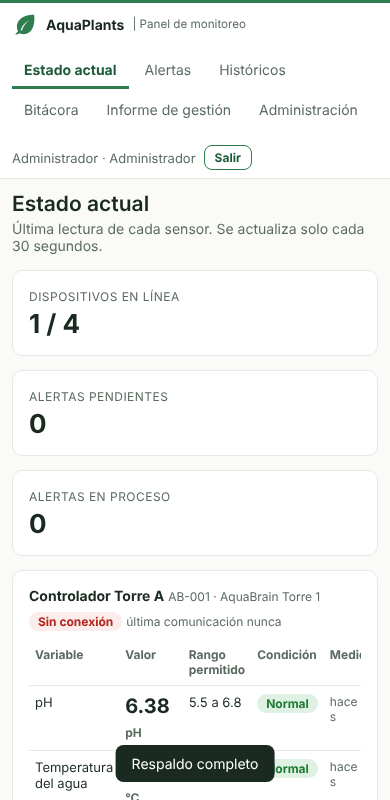
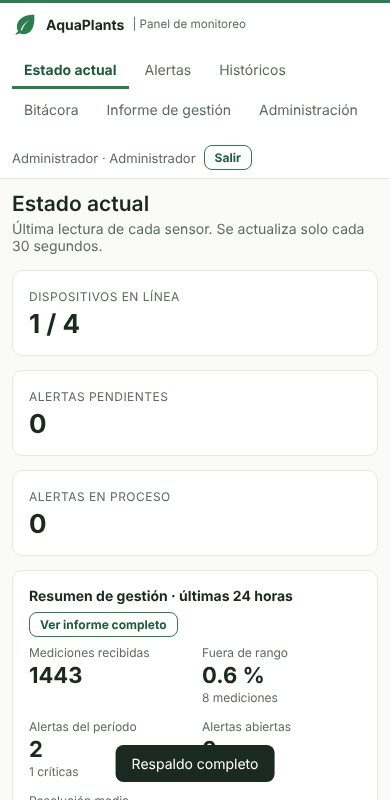
feat: resumen de gestión en Estado actual, más variedad en datos de demo y prueba PM-16
Claude-Session: https://claude.ai/code/session_01Y7NJkophgKa5ZJoceSDNRb

diff --git a/frontend/js/app.js b/frontend/js/app.js
@@ -129,7 +129,7 @@ function irA(v) {
 /* ================= CU02 Estado actual ================= */
 async function vEstado() {
   const m = $('#contenido');
-  m.innerHTML = `<h1>Estado actual</h1><p class="sub">Última lectura de cada sensor. Se actualiza solo cada 30 segundos.</p><div id="aviso"></div><div id="kpis"></div><div id="devs">${cargando()}</div>`;
+  m.innerHTML = `<h1>Estado actual</h1><p class="sub">Última lectura de cada sensor. Se actualiza solo cada 30 segundos.</p><div id="aviso"></div><div id="kpis"></div><div id="gestion"></div><div id="devs">${cargando()}</div>`;
   const pintar = (est, fallo) => {
     ultimoEstado = est;
     $('#aviso').innerHTML = fallo ? `<div class="msg error" role="alert">Sin conexión con el servidor. Se muestran los últimos datos recibidos (${esc(fmtFecha(est.generado_en))}). Reintentando…</div>` : '';
@@ -148,7 +148,22 @@ async function vEstado() {
           <td class="hint">${esc(hace(s.marca_tiempo))}</td></tr>`).join('') || '<tr><td colspan="5" class="hint">Sin sensores registrados</td></tr>'}
         </tbody></table></div></div>`).join('') : vacio('Aún no hay dispositivos registrados.');
   };
+  const puedeGestion = ['Administrador', 'Supervisor'].includes(usuario.rol);
+  const gestion = async () => {
+    if (!puedeGestion) return;
+    try {
+      const ahora = new Date(), f = (d) => d.toISOString().slice(0, 19) + 'Z';
+      const r = await API.get('/informes/gestion?' + new URLSearchParams({ desde: f(new Date(ahora - 864e5)), hasta: f(ahora) })), x = r.resumen;
+      const it = (k, v, sub = '') => `<div><span class="hint">${esc(k)}</span><b>${esc(v)}</b>${sub ? `<small class="hint">${esc(sub)}</small>` : ''}</div>`;
+      $('#gestion').innerHTML = `<div class="card resumen-gestion"><div class="dev-head"><strong>Resumen de gestión · últimas 24 horas</strong><button class="btn sec sm" id="ver-informe">Ver informe completo</button></div>
+        <div class="rg-grid">${it('Mediciones recibidas', x.mediciones)}${it('Fuera de rango', x.pct_fuera_de_rango + ' %', x.mediciones_fuera_de_rango + ' mediciones')}
+        ${it('Alertas del período', x.alertas_periodo, x.alertas_criticas + ' críticas')}${it('Alertas abiertas', x.alertas_abiertas_ahora)}
+        ${it('Resolución media', x.tiempo_medio_resolucion_min === null ? '—' : x.tiempo_medio_resolucion_min + ' min', x.alertas_resueltas + ' resueltas')}</div></div>`;
+      $('#ver-informe').addEventListener('click', () => irA('informe'));
+    } catch (e) { /* el resumen es complementario: si falla, el estado se sigue mostrando */ }
+  };
   const cargar = async () => {
+    gestion();
     try { pintar(await API.get('/dashboard/estado'), false); }
     catch (e) {
       if (e.red && ultimoEstado) pintar(ultimoEstado, true);

diff --git a/tests/ui/pm.js b/tests/ui/pm.js
@@ -121,6 +121,11 @@ const api = async (m, r, b, h = {}) => {
     await p.setViewportSize({ width: 1200, height: 900 }); await p.goto(URL); await p.evaluate(() => sessionStorage.clear()); await login(ADMIN); await p.click('button[data-v=informe]'); await p.waitForSelector('#i-body h2'); await p.waitForTimeout(500);
     const inf = (await p.textContent('#i-body')).replace(/\s+/g, ' '); const evInf = await shot('pm-15-informe-gestion');
     registrar('PM-15', 'Informe de gestión visible desde la interfaz (Administrador/Supervisor)', 'aparecen resumen ejecutivo, variables, desempeño por dispositivo y alertas', inf.slice(0, 110), /Resumen ejecutivo/.test(inf) && /Variables monitoreadas/.test(inf) && /Alertas del período/.test(inf), evInf);
+    // PM-16 resumen de gestión dentro del Estado actual (Administrador)
+    await p.click('button[data-v=estado]'); await p.waitForSelector('#gestion .resumen-gestion', { timeout: 15000 });
+    const rg = (await p.textContent('#gestion')).replace(/\s+/g, ' '); const evRg = await shot('pm-16-resumen-gestion');
+    await p.click('#ver-informe'); await p.waitForSelector('#i-body h2'); const alInf = /Informe de gestión/.test(await p.textContent('#contenido h1'));
+    registrar('PM-16', 'El Estado actual muestra un resumen de gestión (Administrador/Supervisor) con enlace al informe completo', 'aparece el resumen de 24 h y el botón lleva al informe', rg.slice(0, 100), /Resumen de gestión/.test(rg) && /Mediciones recibidas/.test(rg) && alInf, evRg);
     // PM-14 teclado / accesibilidad básica
     await p.goto(URL); await p.evaluate(() => sessionStorage.clear()); await p.reload(); await p.waitForSelector('#form-login');
     await p.keyboard.press('Tab'); const foco1 = await p.evaluate(() => document.activeElement.id); await p.keyboard.press('Tab'); const foco2 = await p.evaluate(() => document.activeElement.id);

diff --git a/frontend/css/app.css b/frontend/css/app.css
@@ -66,3 +66,6 @@ tbody tr:hover{background:#F6F9F5}
 .login-wrap .login .card{width:100%;max-width:380px;border:0;background:transparent;padding:0}
 .login-wrap .login .brand{margin-bottom:6px}
 @media (max-width:760px){.login-wrap{grid-template-columns:1fr}.login-side{display:none}}
+
+.rg-grid{display:grid;grid-template-columns:repeat(5,1fr);gap:14px}.rg-grid div{display:flex;flex-direction:column;gap:2px}.rg-grid b{font-size:22px}.rg-grid small{font-size:12px}
+@media (max-width:760px){.rg-grid{grid-template-columns:repeat(2,1fr)}}

diff --git a/tools/cargar_datos_demo.py b/tools/cargar_datos_demo.py
@@ -86,13 +86,25 @@ for cod, (key, vs) in claves.items():
         for i in range(n):
             ts = ahora - timedelta(minutes=10 * (n - i))
             val = mu + sd * math.sin(i / 40.0) * 0.8 + random.gauss(0, sd * 0.15)
-            if cod == "AB-003" and v == "ph" and exc <= i < exc + 3: val = hi + 0.9
+            if cod == "AB-003" and v == "ph" and exc <= i < exc + 3: val = hi + 0.9                 # pH alto a mitad de período
+            if cod == "AB-004" and v == "conductividad_ec" and n - 14 <= i < n - 11: val = lo - 0.5  # EC baja reciente
+            if cod == "AB-005" and v == "humedad_ambiente" and n // 2 <= i < n // 2 + 3: val = hi + 6  # humedad alta
             med.append({"variable": v, "valor": round(val, 2), "marca_tiempo": ts.strftime("%Y-%m-%dT%H:%M:%SZ")})
         for k in range(0, len(med), 500):
             st, js = http("POST", "/mediciones/lote", {"mediciones": med[k:k + 500]}, key=key)
             if st not in (200, 201): print("lote", cod, v, "error", st, js); break
             total += len(med[k:k + 500])
 print("mediciones enviadas:", total)
+
+# Estados variados de alertas: una resuelta con causa, una en proceso y el resto pendientes
+if claves:
+    _, pend = http("GET", "/alertas?estado=Pendiente", token=t)
+    pend = sorted([x for x in (pend or []) if x["dispositivo"] in claves], key=lambda x: x["creada_en"])
+    if pend:
+        http("PATCH", f"/alertas/{pend[0]['id']}", {"estado": "Resuelta", "causa": "Se corrigió la dosificación de la solución y el valor volvió al rango."}, t)
+    if len(pend) > 1:
+        http("PATCH", f"/alertas/{pend[1]['id']}", {"estado": "En proceso"}, t)
+    print("alertas gestionadas:", min(len(pend), 2), "de", len(pend))
 
 te = login(a.encargado_email, a.encargado_clave) if (a.encargado_clave and claves) else None  # bitácora solo en la primera carga
 if te:

diff --git a/docs/REGISTRO_PRUEBAS.md b/docs/REGISTRO_PRUEBAS.md
@@ -1,6 +1,6 @@
 # Registro de ejecución de pruebas
 
-Ejecutado: 2026-11-22 22:28. Resultado: **85/85 casos aprobados**; carga: cumple los criterios.
+Ejecutado: 2026-11-23 00:46. Resultado: **86/86 casos aprobados**; carga: cumple los criterios.
 
 ## Unitarias (PU)
 
@@ -25,9 +25,9 @@ Ejecutado: 2026-11-22 22:28. Resultado: **85/85 casos aprobados**; carga: cumple
 | PI-02 | CU01 | Credenciales inválidas: mensaje genérico (no revela si el correo existe) | 401 en ambos casos con el mismo mensaje | 401/401 «Correo o contraseña incorrectos» / «Correo o contraseña incorrectos» | Aprobado |
 | PI-03 | CU01 | Usuario desactivado no puede ingresar (FA2) | 403 con aviso de contactar al Administrador | 403 Usuario desactivado. Contacte al Administrador. | Aprobado |
 | PI-04 | CU01 | Token expirado es rechazado (FA3) | 401 indicando sesión expirada | 401 La sesión expiró; inicie sesión nuevamente | Aprobado |
-| PI-05 | CU09 | Medición válida se guarda con su marca de tiempo y aparece en el histórico | 201; el histórico trae 1 punto con ese valor y esa marca | 201; total=1 punto=[{'t': '2026-11-23T01:26:43Z', 'v': 6.2}] | Aprobado |
-| PI-06 | CU09 | Sin marca de tiempo, el servidor asigna la hora actual | marca dentro de los últimos 30 s | 2026-11-23T01:27:43Z | Aprobado |
-| PI-07 | CU09 | Medición fuera de umbral genera alerta Pendiente | 201 con id de alerta; alerta pH Pendiente Crítica | 201 alerta=27 [('ph', 'Pendiente', 'Crítica')] | Aprobado |
+| PI-05 | CU09 | Medición válida se guarda con su marca de tiempo y aparece en el histórico | 201; el histórico trae 1 punto con ese valor y esa marca | 201; total=1 punto=[{'t': '2026-11-23T03:44:36Z', 'v': 6.2}] | Aprobado |
+| PI-06 | CU09 | Sin marca de tiempo, el servidor asigna la hora actual | marca dentro de los últimos 30 s | 2026-11-23T03:45:36Z | Aprobado |
+| PI-07 | CU09 | Medición fuera de umbral genera alerta Pendiente | 201 con id de alerta; alerta pH Pendiente Crítica | 201 alerta=26 [('ph', 'Pendiente', 'Crítica')] | Aprobado |
 | PI-08 | CU09 | No se repiten alertas mientras la anterior sigue abierta | 1 sola alerta para 3 lecturas fuera de rango | 1 alertas | Aprobado |
 | PI-09 | CU09 | Valor dentro del umbral no genera alerta (límite inclusivo 6.8) | 0 alertas | 0 | Aprobado |
 | PI-10 | CU09 | Valor no numérico se rechaza y no se guarda (FA1) | 422 con detalle del campo; 0 mediciones guardadas | 422 [{'campo': 'valor', 'mensaje': 'el valor debe ser numérico'}] total=0 | Aprobado |
@@ -36,7 +36,7 @@ Ejecutado: 2026-11-22 22:28. Resultado: **85/85 casos aprobados**; carga: cumple
 | PI-13 | CU09 | Medición repetida (mismo sensor y marca) no se duplica | 1.ª 201; 2.ª 409 | 201, 409 | Aprobado |
 | PI-14 | CU09 | Variable sin sensor registrado en el dispositivo | 422 explicando que no hay sensor | 422 El dispositivo no tiene un sensor activo para 'caudal' | Aprobado |
 | PI-15 | CU09 | API Key ausente, alterada, mal formada y de dispositivo desactivado | 401, 401, 401 y 403 | 401, 401, 401, 403 | Aprobado |
-| PI-16 | CU10 | Lote acumulado en desconexión: se incorpora y evalúa alertas | 201; 41 insertadas; 1 alerta | 201 {'recibidas': 41, 'insertadas': 41, 'duplicadas': 0, 'alertas': [29]} | Aprobado |
+| PI-16 | CU10 | Lote acumulado en desconexión: se incorpora y evalúa alertas | 201; 41 insertadas; 1 alerta | 201 {'recibidas': 41, 'insertadas': 41, 'duplicadas': 0, 'alertas': [28]} | Aprobado |
 | PI-17 | CU10 | Reenviar el mismo lote no duplica datos | 201; 0 insertadas; 5 duplicadas | 201 {'recibidas': 5, 'insertadas': 0, 'duplicadas': 5, 'alertas': []} | Aprobado |
 | PI-18 | CU10 | Lote de 501 mediciones supera el máximo de 500 | 422 | 422 | Aprobado |
 | PI-19 | CU10 | Lote con un elemento inválido se rechaza completo (transaccional) | 422 en ambos; 0 mediciones guardadas | 422/422 total=0 | Aprobado |
@@ -53,20 +53,20 @@ Ejecutado: 2026-11-22 22:28. Resultado: **85/85 casos aprobados**; carga: cumple
 | PI-30 | CU05 | Histórico: rango invertido, sensor inexistente, sin sensor, fecha inválida, rango > 1 año y período sin datos | 422, 404, 422, 422, 422 y 200 con total 0 | 422, 404, 422, 422, 422, 200 total=0 | Aprobado |
 | PI-31 | CU12 | Exportar CSV (Supervisor) con encabezado y filas; Encargado no puede | 200 text/csv; encabezado + 12 filas; Encargado 403 | 200 text/csv; charset=utf-8 filas=13 cabecera=['marca_tiempo', 'dispositivo', 'variable', 'valor', 'unidad'] enc=403 | Aprobado |
 | PI-32 | CU12 | Exportación con más de 10.000 filas se rechaza y pide acotar | 422; acotando el rango responde 200 | 422 «La consulta supera 10000 filas; acote el rango o el sensor»; acotado 200 | Aprobado |
-| PI-33 | CU07 | CRUD de sistema y cultivo (crear, leer, editar, desactivar) con validaciones | 201, 200, nombre editado, 201; cultivo con sistema inexistente 422; fecha mal formada 422; baja lógica (el registro permanece con activo=false) | 201, 200, «Sistema 3298f9 editado», 201; 422; 422; baja=200 activo=False | Aprobado |
+| PI-33 | CU07 | CRUD de sistema y cultivo (crear, leer, editar, desactivar) con validaciones | 201, 200, nombre editado, 201; cultivo con sistema inexistente 422; fecha mal formada 422; baja lógica (el registro permanece con activo=false) | 201, 200, «Sistema cf6c30 editado», 201; 422; 422; baja=200 activo=False | Aprobado |
 | PI-34 | CU07 | API Key: se muestra una sola vez, no aparece en listados y al regenerar la anterior queda revocada | listado sin hash ni clave; clave vieja 401 tras regenerar; la nueva 201 | claves en listado=[]; antes 201; vieja 401; nueva 201 | Aprobado |
 | PI-35 | CU07 | Código de dispositivo duplicado y sensor duplicado | 409 y 409 | 409, 409 | Aprobado |
 | PI-36 | CU06 | Crear usuario: correo único, política de contraseña, rol y correo válidos | 201; 409; 422 (clave); 422 (rol); 422 (correo) | 201; 409; 422; 422; 422 | Aprobado |
 | PI-37 | CU06 | No se puede desactivar ni degradar al último Administrador activo (FA2) | 409 y 409 | 409, 409 (admins activos: 1) | Aprobado |
 | PI-38 | CU08 | Umbral: rango inválido se rechaza; el umbral editado se aplica a las nuevas mediciones | mín>máx → 422; pH 7.0 con máx 6.8 alerta (1); tras ampliar a 7.5, pH 7.1 no agrega alerta (sigue 1) | 422; alertas antes=1; edición 200; después=1 | Aprobado |
 | PI-39 | CU11 | Bitácora agrícola: solo el Encargado registra; Supervisor lee; auditoría solo Administrador | 201; Admin 403; cultivo inexistente 422; acción vacía 422; lista contiene la Cosecha; auditoría: Supervisor 403, Admin 200 con eventos | 201; 403; 422; 422; True; 403/200 (34 eventos) | Aprobado |
-| PI-40 | CU13 | Respaldo manual: se genera, queda en el historial; solo Administrador | 201 estado Completo con tamaño > 0; aparece en el listado; Supervisor 403 | 201 {'id': 1, 'archivo': 'respaldo_20261123_012730.sqlite', 'tamano': 311296, 'estado': 'Completo'}; en listado=True; sup=403 | Aprobado |
-| PI-41 | — | Endpoint de salud (usado por el despliegue) | 200 con base de datos ok | 200 {'estado': 'ok', 'base_de_datos': 'ok', 'hora': '2026-11-23T01:27:30Z'} | Aprobado |
+| PI-40 | CU13 | Respaldo manual: se genera, queda en el historial; solo Administrador | 201 estado Completo con tamaño > 0; aparece en el listado; Supervisor 403 | 201 {'id': 1, 'archivo': 'respaldo_20261123_034524.sqlite', 'tamano': 311296, 'estado': 'Completo'}; en listado=True; sup=403 | Aprobado |
+| PI-41 | — | Endpoint de salud (usado por el despliegue) | 200 con base de datos ok | 200 {'estado': 'ok', 'base_de_datos': 'ok', 'hora': '2026-11-23T03:45:24Z'} | Aprobado |
 | PI-42 | CU02 | La alerta de desconexión se genera sin que nadie abra el dashboard (monitor en segundo plano) | 1 alerta de desconexión Pendiente creada automáticamente | [('desconexion', 'Pendiente')] | Aprobado |
 | PI-43 | CU09 | 20 mediciones fuera de rango simultáneas del mismo sensor dejan una sola alerta abierta | 20 × 201 y exactamente 1 alerta abierta (índice único parcial) | 20×201; alertas abiertas=1 | Aprobado |
 | PI-44 | CU09/CU02 | Flujo completo: medición simulada → API → almacenamiento → dashboard y alerta | el simulador termina bien; pH 7.9 'fuera de rango' en el dashboard; 2 puntos en el histórico; 1 alerta Pendiente | rc=0; pH 7.9 fuera de rango; 2 puntos; 1 alerta; conexión=en línea | Aprobado |
 | PI-45 | CU10 | Corte de red del simulador: acumula en búfer local y reenvía por lote al reconectar, sin perder datos | 6 ciclos → 6 mediciones por sensor en la BD; la salida muestra SIN RED y un envío de lote | rc=0; caudal=6 puntos; 'SIN RED' en salida=True; 'lote' en salida=True | Aprobado |
-| PI-46 | CU14 | Informe de gestión: resumen, variables y alertas del período; solo Admin/Supervisor | Supervisor 200 con ≥3 mediciones de pH, ≥1 fuera de rango y ≥1 alerta; Encargado 403; sin token 401; rango invertido 422 | 200 mediciones=72 pH n=20 fuera=1 alertas=2; enc=403; sin=401; mal=422 | Aprobado |
+| PI-46 | CU14 | Informe de gestión: resumen, variables y alertas del período; solo Admin/Supervisor | Supervisor 200 con ≥3 mediciones de pH, ≥1 fuera de rango y ≥1 alerta; Encargado 403; sin token 401; rango invertido 422 | 200 mediciones=67 pH n=19 fuera=1 alertas=2; enc=403; sin=401; mal=422 | Aprobado |
 
 ## Seguridad (PS)
 
@@ -79,7 +79,7 @@ Ejecutado: 2026-11-22 22:28. Resultado: **85/85 casos aprobados**; carga: cumple
 | PS-05 | CU09 | Inyección SQL en login, filtros, parámetros y cuerpo | ninguna da acceso ni error 500; las tablas siguen existiendo y el login normal funciona | login [401, 401, 401, 401]; alertas [422, 422]; histórico [422, 422]; bitácora 201; login posterior 200 | Aprobado |
 | PS-06 | CU01 | JWT con firma ajena, algoritmo 'none', rol alterado y basura | los 4 responden 401 | [401, 401, 401, 401] | Aprobado |
 | PS-07 | — | Cabeceras de seguridad HTTP y sin caché en la API | nosniff, DENY, CSP, referrer-policy; cache-control: no-store | faltan=[]; cache-control=no-store | Aprobado |
-| PS-08 | CU06 | Contraseñas y API Keys no se almacenan ni se devuelven en claro | la API no devuelve campos hash/clave/key; BD con hash de contraseñas y SHA-256 de la API Key (no la clave) | campos filtrados=[]; ejemplo hash=scrypt$FpGhmgm…; hash key len=64 | Aprobado |
+| PS-08 | CU06 | Contraseñas y API Keys no se almacenan ni se devuelven en claro | la API no devuelve campos hash/clave/key; BD con hash de contraseñas y SHA-256 de la API Key (no la clave) | campos filtrados=[]; ejemplo hash=scrypt$oVj99Pl…; hash key len=64 | Aprobado |
 | PS-09 | CU09 | Cuerpo de solicitud mayor a 1 MB | 413 | 413 | Aprobado |
 | PS-10 | CU09 | JSON malformado, tipo equivocado y cuerpo vacío no provocan error 500 | 400, 422 y 400 | 400, 422, 400 | Aprobado |
 | PS-11 | — | Errores no filtran trazas ni rutas internas | 404 sin 'Traceback' ni rutas de archivos | 404/404; fuga=False | Aprobado |
@@ -96,15 +96,16 @@ Ejecutado: 2026-11-22 22:28. Resultado: **85/85 casos aprobados**; carga: cumple
 | PM-03 | — | Dashboard muestra última lectura, rango, condición y conexión del dispositivo | UI-001 «En línea», pH 6.2 Normal, temperatura 22.5 Normal |  | Aprobado |
 | PM-05 | — | Resolver alerta sin causa: el formulario lo impide con mensaje | mensaje indicando que la causa es obligatoria | El campo «Causa o solución aplicada» es obligatorio. | Aprobado |
 | PM-04 | — | Alerta fuera de umbral: aparece Pendiente, se toma (En proceso) y se resuelve con causa | Pendiente visible → En proceso → Resuelta con la causa registrada | pendiente visible=true, en proceso=true, resuelta con causa=true | Aprobado |
-| PM-06 | — | Histórico: gráfico dibujado con estadísticas; el Encargado no ve «Exportar CSV» | canvas con píxeles dibujados, 4 tarjetas de estadísticas y sin botón CSV | píxeles=175133, csv visible=false | Aprobado |
+| PM-06 | — | Histórico: gráfico dibujado con estadísticas; el Encargado no ve «Exportar CSV» | canvas con píxeles dibujados, 4 tarjetas de estadísticas y sin botón CSV | píxeles=175135, csv visible=false | Aprobado |
 | PM-07 | — | Texto con HTML/JavaScript en la bitácora se muestra como texto y no se ejecuta (XSS) | se ve el texto literal; ningún script se ejecuta | literal visible=true, ejecuciones=0 | Aprobado |
-| PM-08 | — | Pérdida de conexión del navegador con la API: aviso claro, sin pantalla en blanco | mensaje «Sin conexión con el servidor…» y/o error legible | Sin conexión con el servidor. Se muestran los últimos datos recibidos (22-11-26, 10:27:59 p. m.). Reintentando… | Aprobado |
+| PM-08 | — | Pérdida de conexión del navegador con la API: aviso claro, sin pantalla en blanco | mensaje «Sin conexión con el servidor…» y/o error legible | Sin conexión con el servidor. Se muestran los últimos datos recibidos (23-11-26, 12:45:52 a. m.). Reintentando… | Aprobado |
 | PM-09 | — | Token inválido/expirado: vuelve al login sin quedarse en pantalla rota | se muestra el formulario de login | login visible=true | Aprobado |
 | PM-10 | — | Administrador crea dispositivo en la UI: la API Key se muestra una sola vez y no queda en la tabla | aparece diálogo con clave aq_…; luego el listado muestra el dispositivo sin la clave | clave mostrada=true, en tabla=false, dispositivo listado=true | Aprobado |
 | PM-11 | — | Umbral con mínimo mayor que máximo: la API lo rechaza y la UI informa el motivo | mensaje de error visible (mínimo debe ser menor que máximo) | Datos inválidos: cuerpo – el mínimo debe ser menor que el máximo | Aprobado |
-| PM-12 | — | Respaldo manual desde la UI | aparece una fila «manual» con estado Completo |  22-11-26, 10:28:03 p. m.manualrespaldo_20261123_012803.sqlite311296Completo  | Aprobado |
+| PM-12 | — | Respaldo manual desde la UI | aparece una fila «manual» con estado Completo |  23-11-26, 12:45:56 a. m.manualrespaldo_20261123_034556.sqlite311296Completo  | Aprobado |
 | PM-13 | — | Vista móvil (390 px): sin desplazamiento horizontal de la página | scrollWidth ≤ clientWidth | desborde=0px | Aprobado |
-| PM-15 | — | Informe de gestión visible desde la interfaz (Administrador/Supervisor) | aparecen resumen ejecutivo, variables, desempeño por dispositivo y alertas | Período: 21-11-26, 10:28:05 p. m. a 22-11-26, 10:28:05 p. m. · Generado por Administrador el 22-11-26, 10:28:0 | Aprobado |
+| PM-15 | — | Informe de gestión visible desde la interfaz (Administrador/Supervisor) | aparecen resumen ejecutivo, variables, desempeño por dispositivo y alertas | Período: 22-11-26, 12:45:57 a. m. a 23-11-26, 12:45:57 a. m. · Generado por Administrador el 23-11-26, 12:45:5 | Aprobado |
+| PM-16 | — | El Estado actual muestra un resumen de gestión (Administrador/Supervisor) con enlace al informe completo | aparece el resumen de 24 h y el botón lleva al informe | Resumen de gestión · últimas 24 horasVer informe completo Mediciones recibidas1443Fuera de rango0.6  | Aprobado |
 | PM-14 | — | Accesibilidad básica del login: orden de tabulación y campos etiquetados | Tab recorre correo → contraseña; ambos inputs dentro de <label> | l-email → l-clave; etiquetados=true | Aprobado |
 
 ## Carga (PR)
@@ -119,19 +120,19 @@ Ejecutado: 2026-11-22 22:28. Resultado: **85/85 casos aprobados**; carga: cumple
   "detalle_errores": [],
   "ingesta": {
     "n": 4000,
-    "media_ms": 42.1,
-    "p50_ms": 7.2,
-    "p95_ms": 193.3,
-    "p99_ms": 290.8,
-    "max_ms": 494.0
+    "media_ms": 39.8,
+    "p50_ms": 6.8,
+    "p95_ms": 190.6,
+    "p99_ms": 336.5,
+    "max_ms": 548.2
   },
   "dashboard": {
     "n": 400,
-    "media_ms": 74.8,
-    "p50_ms": 75.6,
-    "p95_ms": 105.0,
-    "p99_ms": 121.8,
-    "max_ms": 124.3
+    "media_ms": 66.7,
+    "p50_ms": 69.4,
+    "p95_ms": 90.9,
+    "p99_ms": 113.4,
+    "max_ms": 120.4
   },
   "cumple": true
 }
